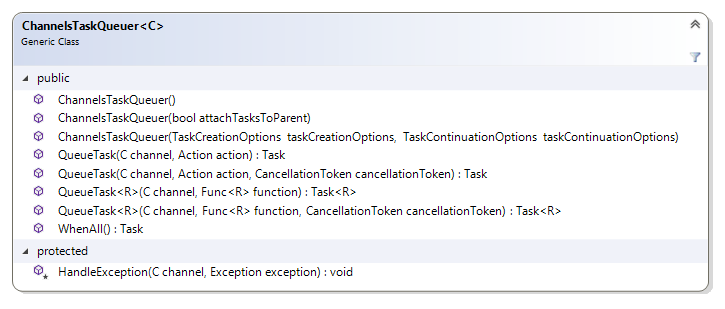
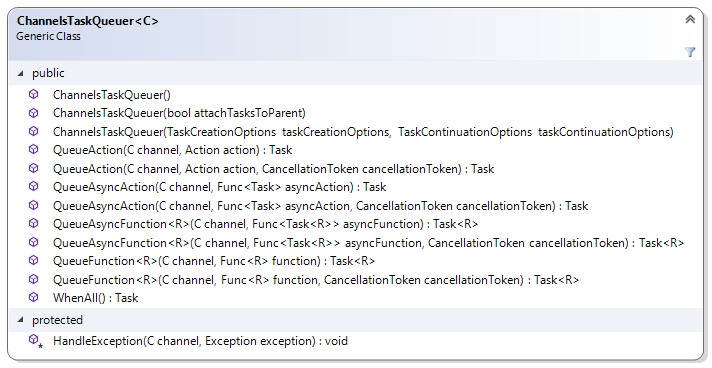
Add async actions and functions support.

Changed region(s): [[0.0, 0.0, 1.0, 0.9903]]

diff --git a/ChannelsTaskQueuer.cs b/ChannelsTaskQueuer.cs
@@ -1,6 +1,7 @@
 using System;
 using System.Collections.Concurrent;
 using System.Linq;
+using System.Threading;
 using System.Threading.Tasks;
 
 namespace Grammophone.Tasks
@@ -26,7 +27,7 @@ namespace Grammophone.Tasks
 		/// <summary>
 		/// Create.
 		/// </summary>
-		/// <param name="attachTasksToParent">If true, the tasks are attached to the parent task where the scheduler lives, else tey are independent.</param>
+		/// <param name="attachTasksToParent">If true, the tasks are attached to the parent task where the scheduler lives, else they are independent.</param>
 		public ChannelsTaskQueuer(bool attachTasksToParent)
 		{
 			if (attachTasksToParent)
@@ -69,44 +70,33 @@ namespace Grammophone.Tasks
 		#region Public methods
 
 		/// <summary>
-		/// Queue a task for a channel. Exceptions are handled in <see cref="HandleException(C, Exception)"/>.
+		/// Queue an action for a channel. Exceptions are handled in <see cref="HandleException(C, Exception)"/>.
 		/// Use the returned task to attach additional exception handling.
 		/// </summary>
 		/// <param name="channel">The channel for which to queue the task.</param>
-		/// <param name="action">The action to be executed in the task.</param>
+		/// <param name="action">The action to be executed.</param>
 		/// <returns>Returns the task created and queued.</returns>
 		/// <exception cref="ArgumentNullException">Thrown when <paramref name="channel"/> or <paramref name="action"/> is null.</exception>
-		public Task QueueTask(C channel, Action action)
-		{
-			if (action == null) throw new ArgumentNullException(nameof(action));
-
-			var newTask = tasksByChannel.AddOrUpdate(
-				channel,
-				_ => Task.Factory.StartNew(action, taskCreationOptions),
-				(_, existingTask) => existingTask.ContinueWith(pt => action(), taskContinuationOptions));
-
-			newTask.ContinueWith(t => HandleException(channel, t.Exception), TaskContinuationOptions.OnlyOnFaulted);
-
-			return newTask;
-		}
+		public Task QueueAction(C channel, Action action)
+			=> QueueAction(channel, action, CancellationToken.None);
 
 		/// <summary>
-		/// Queue a task for a channel. Exceptions are handled in <see cref="HandleException(C, Exception)"/>.
+		/// Queue an action for a channel. Exceptions are handled in <see cref="HandleException(C, Exception)"/>.
 		/// Use the returned task to attach additional exception handling.
 		/// </summary>
 		/// <param name="channel">The channel for which to queue the task.</param>
-		/// <param name="action">The action to be executed in the task.</param>
+		/// <param name="action">The action to be executed.</param>
 		/// <param name="cancellationToken">The cancellation token to be assigned to the new task.</param>
 		/// <returns>Returns the task created and queued.</returns>
 		/// <exception cref="ArgumentNullException">Thrown when <paramref name="channel"/> or <paramref name="action"/> is null.</exception>
-		public Task QueueTask(C channel, Action action, System.Threading.CancellationToken cancellationToken)
+		public Task QueueAction(C channel, Action action, CancellationToken cancellationToken)
 		{
 			if (action == null) throw new ArgumentNullException(nameof(action));
 
 			var newTask = tasksByChannel.AddOrUpdate(
 				channel,
-				_ => Task.Factory.StartNew(action, cancellationToken, taskCreationOptions, Task.Factory.Scheduler),
-				(_, existingTask) => existingTask.ContinueWith(pt => action(), cancellationToken, taskContinuationOptions, Task.Factory.Scheduler));
+				_ => Task.Factory.StartNew(action, cancellationToken, taskCreationOptions, TaskScheduler.Default),
+				(_, existingTask) => existingTask.ContinueWith(pt => action(), cancellationToken, taskContinuationOptions, TaskScheduler.Default));
 
 			newTask.ContinueWith(t => HandleException(channel, t.Exception), TaskContinuationOptions.OnlyOnFaulted);
 
@@ -114,29 +104,52 @@ namespace Grammophone.Tasks
 		}
 
 		/// <summary>
-		/// Queue a task returning a value for a channel. Exceptions are handled in <see cref="HandleException(C, Exception)"/>.
+		/// Queue an asynchronous action for a channel. Exceptions are handled in <see cref="HandleException(C, Exception)"/>.
+		/// Use the returned task to attach additional exception handling.
+		/// </summary>
+		/// <param name="channel">The channel for which to queue the task.</param>
+		/// <param name="asyncAction">The asynchronous action to be executed.</param>
+		/// <returns>Returns the task created and queued.</returns>
+		/// <exception cref="ArgumentNullException">Thrown when <paramref name="channel"/> or <paramref name="asyncAction"/> is null.</exception>
+		public Task QueueAsyncAction(C channel, Func<Task> asyncAction)
+			=> QueueAsyncAction(channel, asyncAction, CancellationToken.None);
+
+		/// <summary>
+		/// Queue an asynchronous action for a channel. Exceptions are handled in <see cref="HandleException(C, Exception)"/>.
+		/// Use the returned task to attach additional exception handling.
+		/// </summary>
+		/// <param name="channel">The channel for which to queue the task.</param>
+		/// <param name="asyncAction">The asynchronous action to be executed.</param>
+		/// <param name="cancellationToken">The cancellation token to be assigned to the new task.</param>
+		/// <returns>Returns the task created and queued.</returns>
+		/// <exception cref="ArgumentNullException">Thrown when <paramref name="channel"/> or <paramref name="asyncAction"/> is null.</exception>
+		public Task QueueAsyncAction(C channel, Func<Task> asyncAction, CancellationToken cancellationToken)
+		{
+			if (asyncAction == null) throw new ArgumentNullException(nameof(asyncAction));
+
+			var newTask = tasksByChannel.AddOrUpdate(
+				channel,
+				_ => Task.Factory.StartNew(asyncAction, cancellationToken, taskCreationOptions, TaskScheduler.Default),
+				(_, existingTask) => existingTask.ContinueWith(pt => asyncAction(), cancellationToken, taskContinuationOptions, TaskScheduler.Default));
+
+			newTask.ContinueWith(t => HandleException(channel, t.Exception), TaskContinuationOptions.OnlyOnFaulted);
+
+			return newTask;
+		}
+
+		/// <summary>
+		/// Queue a function returning a value for a channel. Exceptions are handled in <see cref="HandleException(C, Exception)"/>.
 		/// Use the returned task to attach additional exception handling or to obtain the returned value.
 		/// </summary>
 		/// <param name="channel">The channel for which to queue the task.</param>
 		/// <param name="function">The function to be executed in the task.</param>
 		/// <returns>Returns the task created and queued, whose <see cref="Task{TResult}.Result"/> will hold the result of the function.</returns>
 		/// <exception cref="ArgumentNullException">Thrown when <paramref name="channel"/> or <paramref name="function"/> is null.</exception>
-		public Task<R> QueueTask<R>(C channel, Func<R> function)
-		{
-			if (function == null) throw new ArgumentNullException(nameof(function));
-
-			var newTask = (Task<R>)tasksByChannel.AddOrUpdate(
-				channel,
-				_ => Task.Factory.StartNew(function, taskCreationOptions),
-				(_, existingTask) => existingTask.ContinueWith(pt => function(), taskContinuationOptions));
-
-			newTask.ContinueWith(t => HandleException(channel, t.Exception), TaskContinuationOptions.OnlyOnFaulted);
-
-			return newTask;
-		}
+		public Task<R> QueueFunction<R>(C channel, Func<R> function)
+			=> QueueFunction(channel, function, CancellationToken.None);
 
 		/// <summary>
-		/// Queue a task returning a value for a channel. Exceptions are handled in <see cref="HandleException(C, Exception)"/>.
+		/// Queue a function returning a value for a channel. Exceptions are handled in <see cref="HandleException(C, Exception)"/>.
 		/// Use the returned task to attach additional exception handling or to obtain the returned value.
 		/// </summary>
 		/// <param name="channel">The channel for which to queue the task.</param>
@@ -144,14 +157,48 @@ namespace Grammophone.Tasks
 		/// <param name="cancellationToken">The cancellation token to be assigned to the new task.</param>
 		/// <returns>Returns the task created and queued, whose <see cref="Task{TResult}.Result"/> will hold the result of the function.</returns>
 		/// <exception cref="ArgumentNullException">Thrown when <paramref name="channel"/> or <paramref name="function"/> is null.</exception>
-		public Task<R> QueueTask<R>(C channel, Func<R> function, System.Threading.CancellationToken cancellationToken)
+		public Task<R> QueueFunction<R>(C channel, Func<R> function, CancellationToken cancellationToken)
 		{
 			if (function == null) throw new ArgumentNullException(nameof(function));
 
 			var newTask = (Task<R>)tasksByChannel.AddOrUpdate(
 				channel,
-				_ => Task.Factory.StartNew(function, cancellationToken, taskCreationOptions, Task.Factory.Scheduler),
-				(_, existingtask) => existingtask.ContinueWith(pt => function(), cancellationToken, taskContinuationOptions, Task.Factory.Scheduler));
+				_ => Task.Factory.StartNew(function, cancellationToken, taskCreationOptions, TaskScheduler.Default),
+				(_, existingtask) => existingtask.ContinueWith(pt => function(), cancellationToken, taskContinuationOptions, TaskScheduler.Default));
+
+			newTask.ContinueWith(t => HandleException(channel, t.Exception), TaskContinuationOptions.OnlyOnFaulted);
+
+			return newTask;
+		}
+
+		/// <summary>
+		/// Queue an asynchronous function returning a value for a channel. Exceptions are handled in <see cref="HandleException(C, Exception)"/>.
+		/// Use the returned task to attach additional exception handling or to obtain the returned value.
+		/// </summary>
+		/// <param name="channel">The channel for which to queue the task.</param>
+		/// <param name="asyncFunction">The function to be executed in the task.</param>
+		/// <returns>Returns the task created and queued, whose <see cref="Task{TResult}.Result"/> will hold the result of the function.</returns>
+		/// <exception cref="ArgumentNullException">Thrown when <paramref name="channel"/> or <paramref name="asyncFunction"/> is null.</exception>
+		public Task<R> QueueAsyncFunction<R>(C channel, Func<Task<R>> asyncFunction)
+			=> QueueAsyncFunction(channel, asyncFunction, CancellationToken.None);
+
+		/// <summary>
+		/// Queue an asynchronous function returning a value for a channel. Exceptions are handled in <see cref="HandleException(C, Exception)"/>.
+		/// Use the returned task to attach additional exception handling or to obtain the returned value.
+		/// </summary>
+		/// <param name="channel">The channel for which to queue the task.</param>
+		/// <param name="asyncFunction">The function to be executed in the task.</param>
+		/// <param name="cancellationToken">The cancellation token to be assigned to the new task.</param>
+		/// <returns>Returns the task created and queued, whose <see cref="Task{TResult}.Result"/> will hold the result of the function.</returns>
+		/// <exception cref="ArgumentNullException">Thrown when <paramref name="channel"/> or <paramref name="asyncFunction"/> is null.</exception>
+		public Task<R> QueueAsyncFunction<R>(C channel, Func<Task<R>> asyncFunction, CancellationToken cancellationToken)
+		{
+			if (asyncFunction == null) throw new ArgumentNullException(nameof(asyncFunction));
+
+			var newTask = (Task<R>)tasksByChannel.AddOrUpdate(
+				channel,
+				_ => Task.Factory.StartNew(async () => await asyncFunction(), cancellationToken, taskCreationOptions, TaskScheduler.Default).Unwrap(),
+				(_, existingtask) => existingtask.ContinueWith(async pt => await asyncFunction(), cancellationToken, taskContinuationOptions, TaskScheduler.Default).Unwrap());
 
 			newTask.ContinueWith(t => HandleException(channel, t.Exception), TaskContinuationOptions.OnlyOnFaulted);
 

diff --git a/README.md b/README.md
@@ -7,9 +7,9 @@ A channel can be of any type `C`.
 
 ![ChannelsTaskQueuer UML diagram](https://github.com/grammophone/Grammophone.Tasks/blob/master/Images/ChannelsTaskQueuer.png)
 
-Use one of the `QueueTask` methods to enqueue a task.
+Use one of the `QueueAction`, QueueAsyncAction`, `QueueFunction`, `QueueAsyncFunction` methods to enqueue a task.
 Exception handling can be central by overriding `HandleException` method.
-Exception handling can be done on a per-task basis as well, by continuing the task
-returned by `QueueTask` methods with `TaskContinuationOptions.OnlyOnFaulted` option as usual.
+Exception handling can also be done on a per-task basis, by continuing the task
+returned by `QueueXXX` methods with `TaskContinuationOptions.OnlyOnFaulted` option as usual.
 
 The default implementation of `HandleException` method writes to `System.Diagnostics.Trace`.
